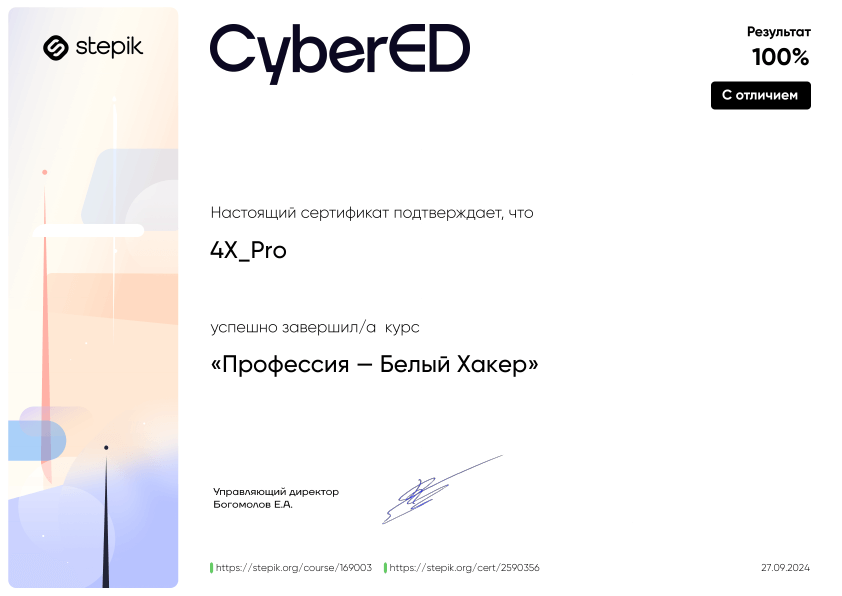
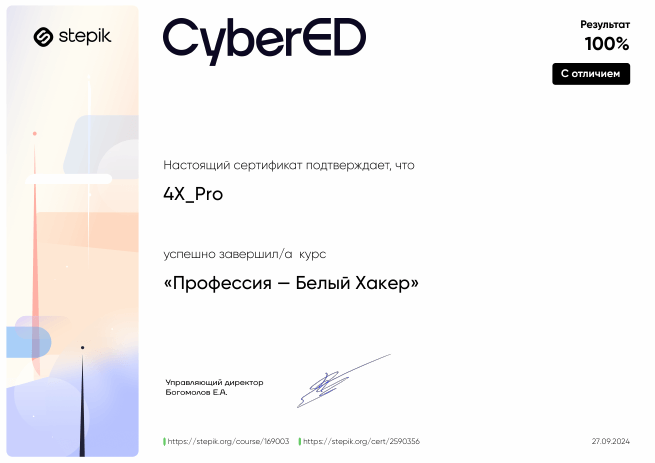
Certificate size fixed

diff --git a/achievements.htm b/achievements.htm
@@ -151,8 +151,8 @@
 <p>На этой странице я публикую все, что связано с формальным признанием: дипломы, сертификаты, результаты конкурсов и т.п.</p>
 
 <ul style="list-style-type:square">
-      <li>30 сентября 2024 года <a href="https://stepik.org/cert/2590356">окончил с отличием курс</a> «<a href="https://stepik.org/course/169003/syllabus">Профессия — Белый Хакер</a>» на Stepik.Org.
-        <a href="/images/achievements/cyber-ed.png" onclick="window.open(this.href,'','menubar=no,scrollbars=yes,resizable=yes,width=720,height=1000');return false"><img width="283" height="399" src="/images/achievements/cyber-ed.png" alt="Сертификат &laquo;Профессия — Белый Хакер&raquo;" style="display:inline" /></a></li>
+      <li>30 сентября 2024 года <a href="https://stepik.org/cert/2590356">окончил с отличием курс</a> «<a href="https://stepik.org/course/169003/syllabus">Профессия — Белый Хакер</a>» на Stepik.Org.<br />
+        <a href="/images/achievements/cyber-ed.png" onclick="window.open(this.href,'','menubar=no,scrollbars=yes,resizable=yes,width=720,height=1000');return false"><img width="655" height="463" src="/images/achievements/cyber-ed.png" alt="Сертификат &laquo;Профессия — Белый Хакер&raquo;" style="display:inline" /></a></li>
       <li>23 июля 2024 года я получил звание «<a href="https://xxxxpro.livejournal.com/profile/"><b>Легендарный автор ЖЖ</b></a>» за 5000 записей, написанных за почти 20 лет (с ноября 2004 года).<br />
         <img src="https://l-files.livejournal.net/vgift/1170/small" alt="Легендарный автор ЖЖ" width="200" height="200" />
       </li>
